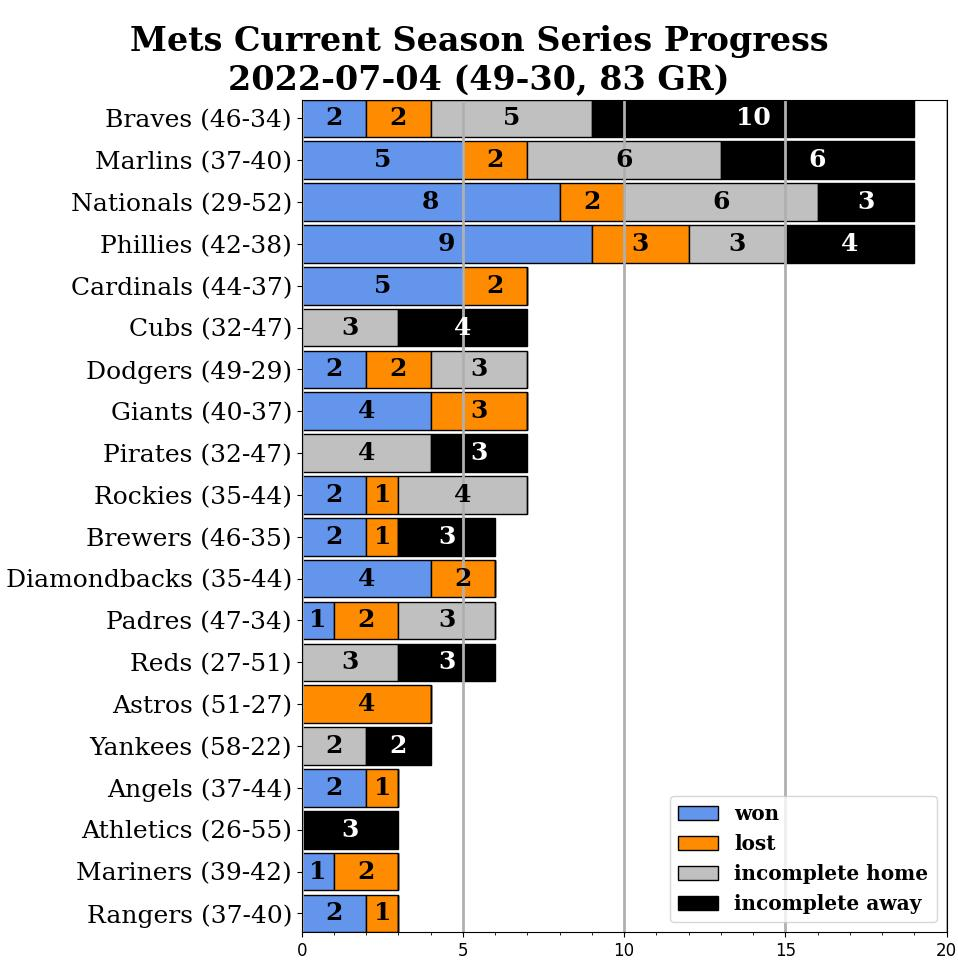
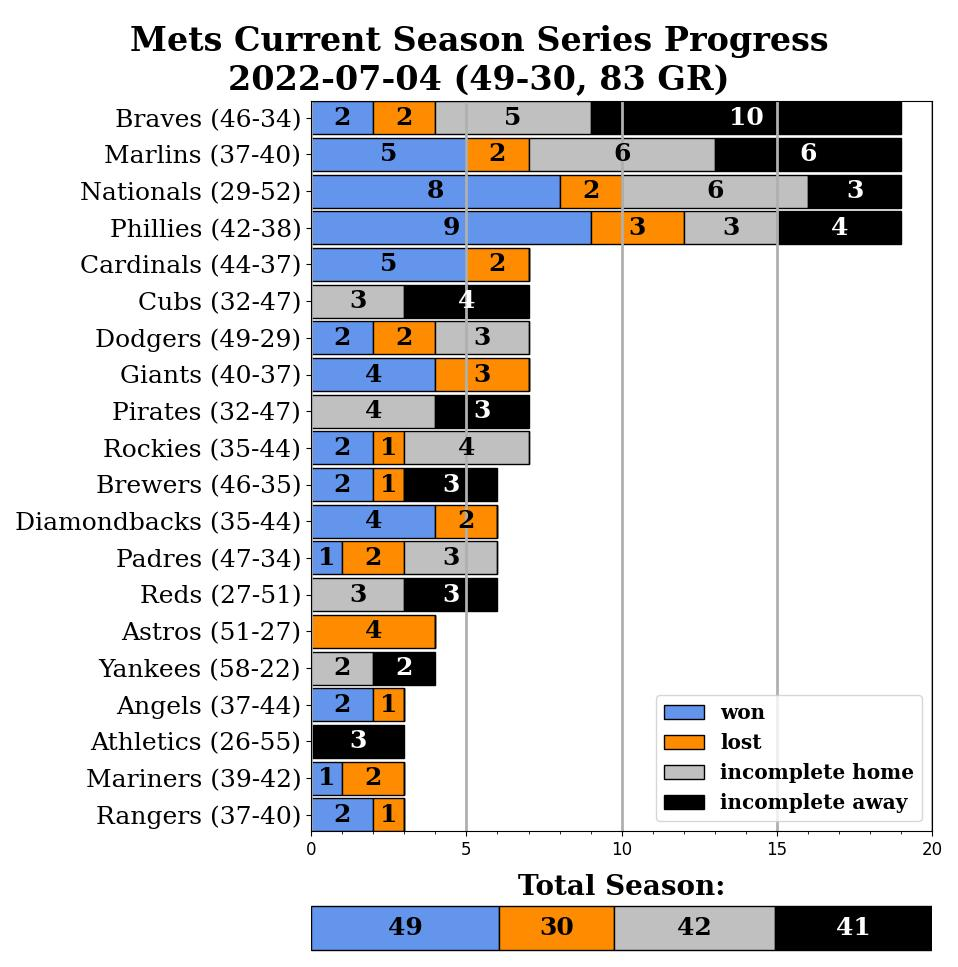
added total season progress tracker

Changed region(s): [[0.0, 0.0931, 0.999, 0.9928]]

diff --git a/mets-season-series/stackedbar.py b/mets-season-series/stackedbar.py
@@ -82,60 +82,93 @@ incomplete_away = round(inc_away)
 
 
 
-fig, ax = plt.subplots(figsize=(25, 25))
+# fig, ax= plt.subplots(figsize=(25, 25), nrows=2, ncols=1, gridspec_kw={'height_ratios': [5, 1]})
+fig, ax= plt.subplots(nrows=2, ncols=1, gridspec_kw={'height_ratios': [15, 1]})
 
 w = 0.9 #main bar width
 x = np.arange(len(team_set))
 
 
-wins       = ax.barh(x, df_teams['won'], w, label='won',
+wins       = ax[0].barh(x, df_teams['won'], w, label='won',
                      color="cornflowerblue", edgecolor='k')
-losses     = ax.barh(x, df_teams['lost'], w, left=df_teams['won'],
+losses     = ax[0].barh(x, df_teams['lost'], w, left=df_teams['won'],
                      label='lost', color="darkorange", edgecolor='k')
 # incomp = ax.barh(x-w/4, df_teams['incomplete'], w/2, 
 #                     left=df_teams['won']+df_teams['lost'], label="incomplete total", color='silver')
 
-home       = ax.barh(x, df_teams['inc_home'], w, left=df_teams['won']+df_teams['lost'],
+home       = ax[0].barh(x, df_teams['inc_home'], w, left=df_teams['won']+df_teams['lost'],
                      label="incomplete home", color='silver', edgecolor='k')
-away       = ax.barh(x, df_teams['inc_away'], w, left=df_teams['won']+df_teams['lost'] + df_teams['inc_home'],
+away       = ax[0].barh(x, df_teams['inc_away'], w, left=df_teams['won']+df_teams['lost'] + df_teams['inc_home'],
                      label="incomplete away", color='k', edgecolor='k')
 
 for index, row in df_teams.iterrows():
     # So we ignore when one of the totals equals zero
     if round(row['won']) != 0:
-        ax.text(row['won']/2, x[index], int(row['won']),
+        ax[0].text(row['won']/2, x[index], int(row['won']),
                 weight='bold', va='center', ha='center',
                 size=18, fontname='serif')
     
     if round(row['lost']) != 0:
-        ax.text(row['won']+row['lost']/2, x[index], int(row['lost']),
+        ax[0].text(row['won']+row['lost']/2, x[index], int(row['lost']),
                 weight='bold', va='center', ha='center',
                 size=18, fontname='serif')
 
     if round(row['inc_home']) != 0:
-        ax.text(row['won']+row['lost']+row['inc_home']/2, x[index], int(row['inc_home']),
+        ax[0].text(row['won']+row['lost']+row['inc_home']/2, x[index], int(row['inc_home']),
                 weight='bold', va='center', ha='center',
                 size=18, fontname='serif')
 
     if round(row['inc_away']) != 0:
-        ax.text(row['won']+row['lost']+row['inc_home']+row['inc_away']/2, x[index], int(row['inc_away']),
+        ax[0].text(row['won']+row['lost']+row['inc_home']+row['inc_away']/2, x[index], int(row['inc_away']),
                 weight='bold', va='center', ha='center', color='w',
                 size=18, fontname='serif')
     
-   
+
+
+###Edits to add total season bar are here
+
+wins       = ax[1].barh(0, won, w, label='won',
+                     color="cornflowerblue", edgecolor='k')
+ax[1].text(won/2, 0, round(won) ,weight='bold', va='center', ha='center',
+                size=18, fontname='serif')
+
+losses     = ax[1].barh(0, lost, w, left=won,
+                     label='lost', color="darkorange", edgecolor='k')
+ax[1].text(won+lost/2, 0, round(lost), weight='bold', va='center', ha='center',
+                size=18, fontname='serif')
+
+home       = ax[1].barh(0, inc_home, w, left=won+lost,
+                     label="incomplete home", color='silver', edgecolor='k')
+ax[1].text(won+lost+inc_home/2, 0, round(inc_home),
+                weight='bold', va='center', ha='center',
+                size=18, fontname='serif')
+
+away       = ax[1].barh(0, inc_away, w, left=won+lost+inc_home,
+                     label="incomplete away", color='k', edgecolor='k')
+ax[1].text(won+lost+inc_home+inc_away/2, 0, round(inc_away),
+                weight='bold', va='center', ha='center', color='w',
+                size=18, fontname='serif')
+
+ax[1].axis('off')
+ax[1].set_title('Total Season:', size=20, weight='bold',
+             fontname='serif')
+
+ax[1].set_xlim(0, 162)
+###End edits
+
 #Graph styling:
 
 
 
-ax.grid(axis='x', which='major', linewidth=2)
-ax.set_ylim(min(x)-w/2, max(x)+w/2)
-ax.invert_yaxis()
-ax.set_xticks(range(0, 21, 5), fontfamily='serif', minor=False)
-ax.set_xticks(range(0, 21, 1), fontfamily='serif', minor=True)
-ax.tick_params('x', labelsize='large')
-ax.set_yticks(ticks = x, labels=df_teams['team'], size=18, fontfamily='serif')
-ax.set_xlim(0, 20)
-ax.legend(labels=['won', 'lost', 'incomplete home', 'incomplete away'],
+ax[0].grid(axis='x', which='major', linewidth=2)
+ax[0].set_ylim(min(x)-w/2, max(x)+w/2)
+ax[0].invert_yaxis()
+ax[0].set_xticks(range(0, 21, 5), fontfamily='serif', minor=False)
+ax[0].set_xticks(range(0, 21, 1), fontfamily='serif', minor=True)
+ax[0].tick_params('x', labelsize='large')
+ax[0].set_yticks(ticks = x, labels=df_teams['team'], size=18, fontfamily='serif')
+ax[0].set_xlim(0, 20)
+ax[0].legend(labels=['won', 'lost', 'incomplete home', 'incomplete away'],
           loc=4, ncol=1, prop={'family': "serif", 'size':'x-large', 'weight': 'bold'})
 
 fig.suptitle(f"Mets Current Season Series Progress\n{date.today()} ({won}-{lost}, {incomplete} GR)", size=24, weight='bold',
